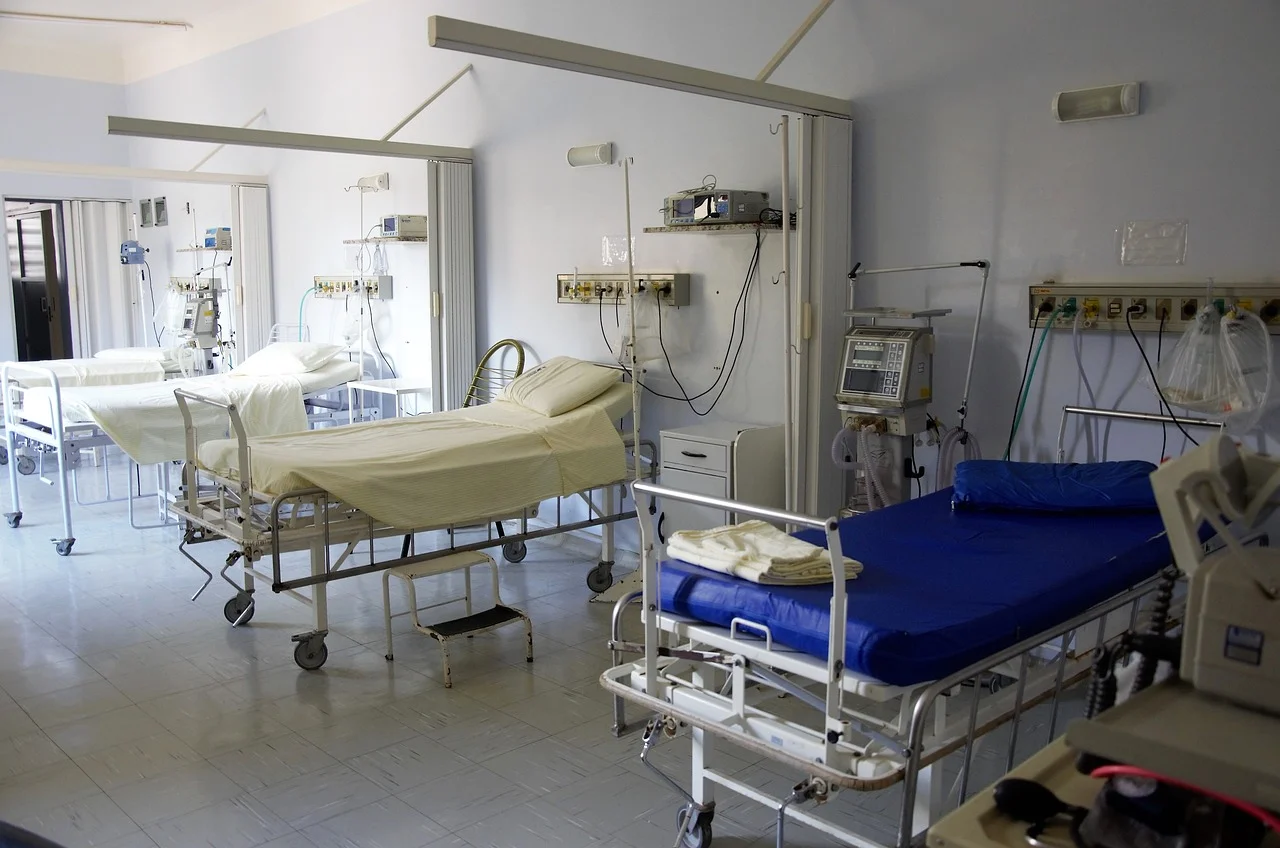
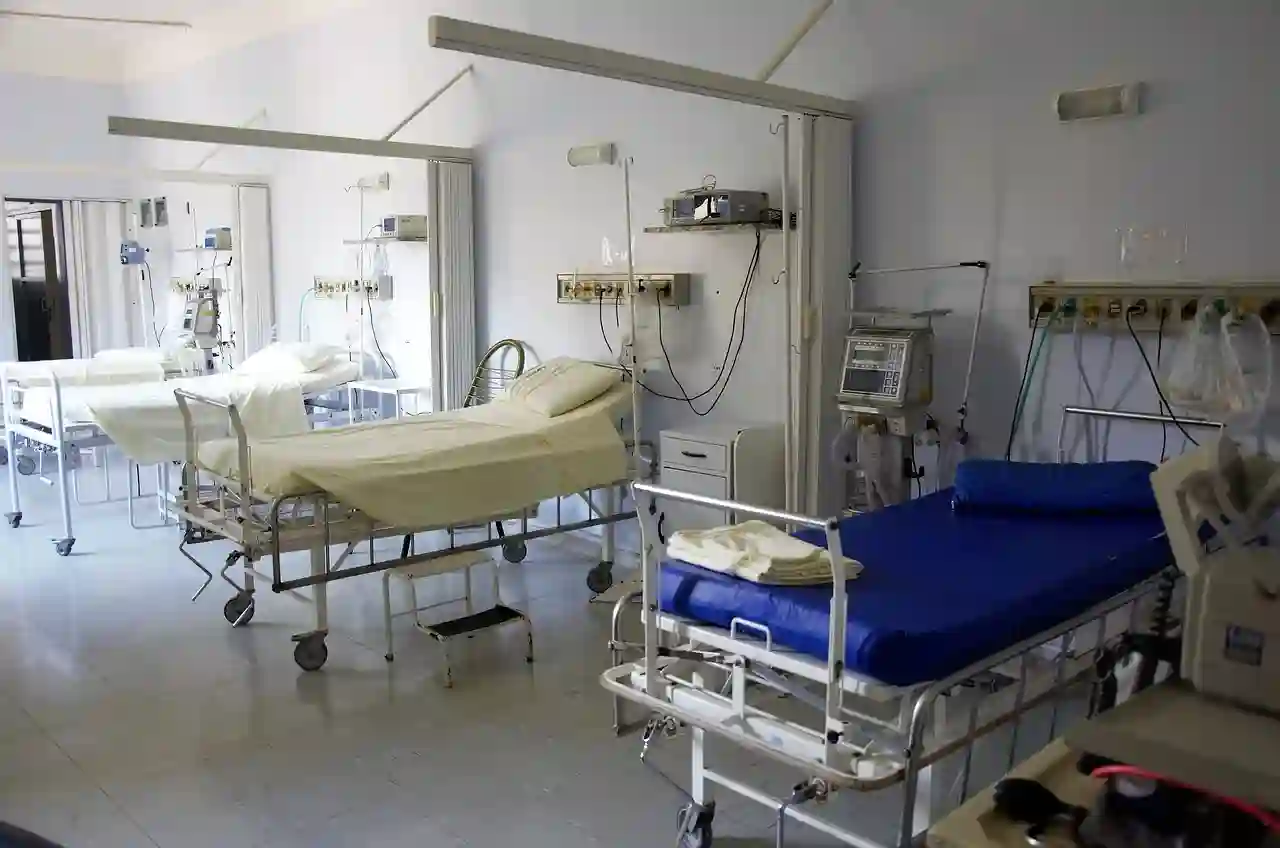
optimizing images

diff --git a/src/pages/Career/Career.css b/src/pages/Career/Career.css
@@ -7,7 +7,7 @@ position: relative;
     position: relative;
     width: 100%;
     height: 400px;
-    background-image: url("../../assets/images/backgroundCareer.png");
+    background-image: url("../../assets/images/backgroundCareer.webp");
   }
   
   .picBlock::before {
@@ -85,7 +85,7 @@ position: relative;
   .imageCareer {
     width: 400px; /* Adjust the width as needed */
     height: 250px; /* Adjust the height as needed */
-    background-image: url("../../assets/images/backgroundCareer.png");
+    background-image: url("../../assets/images/backgroundCareer.webp");
   }
   
   .containerBlueCareer {

diff --git a/src/App.js b/src/App.js
@@ -130,7 +130,7 @@ const App = () => {
     // setLoading(true);
     setTimeout(() => {
       setLoading(false);
-    }, 3000);
+    }, 2000);
   }, []);
   const contentStyle = {
     opacity: loading ? 0 : 1,
